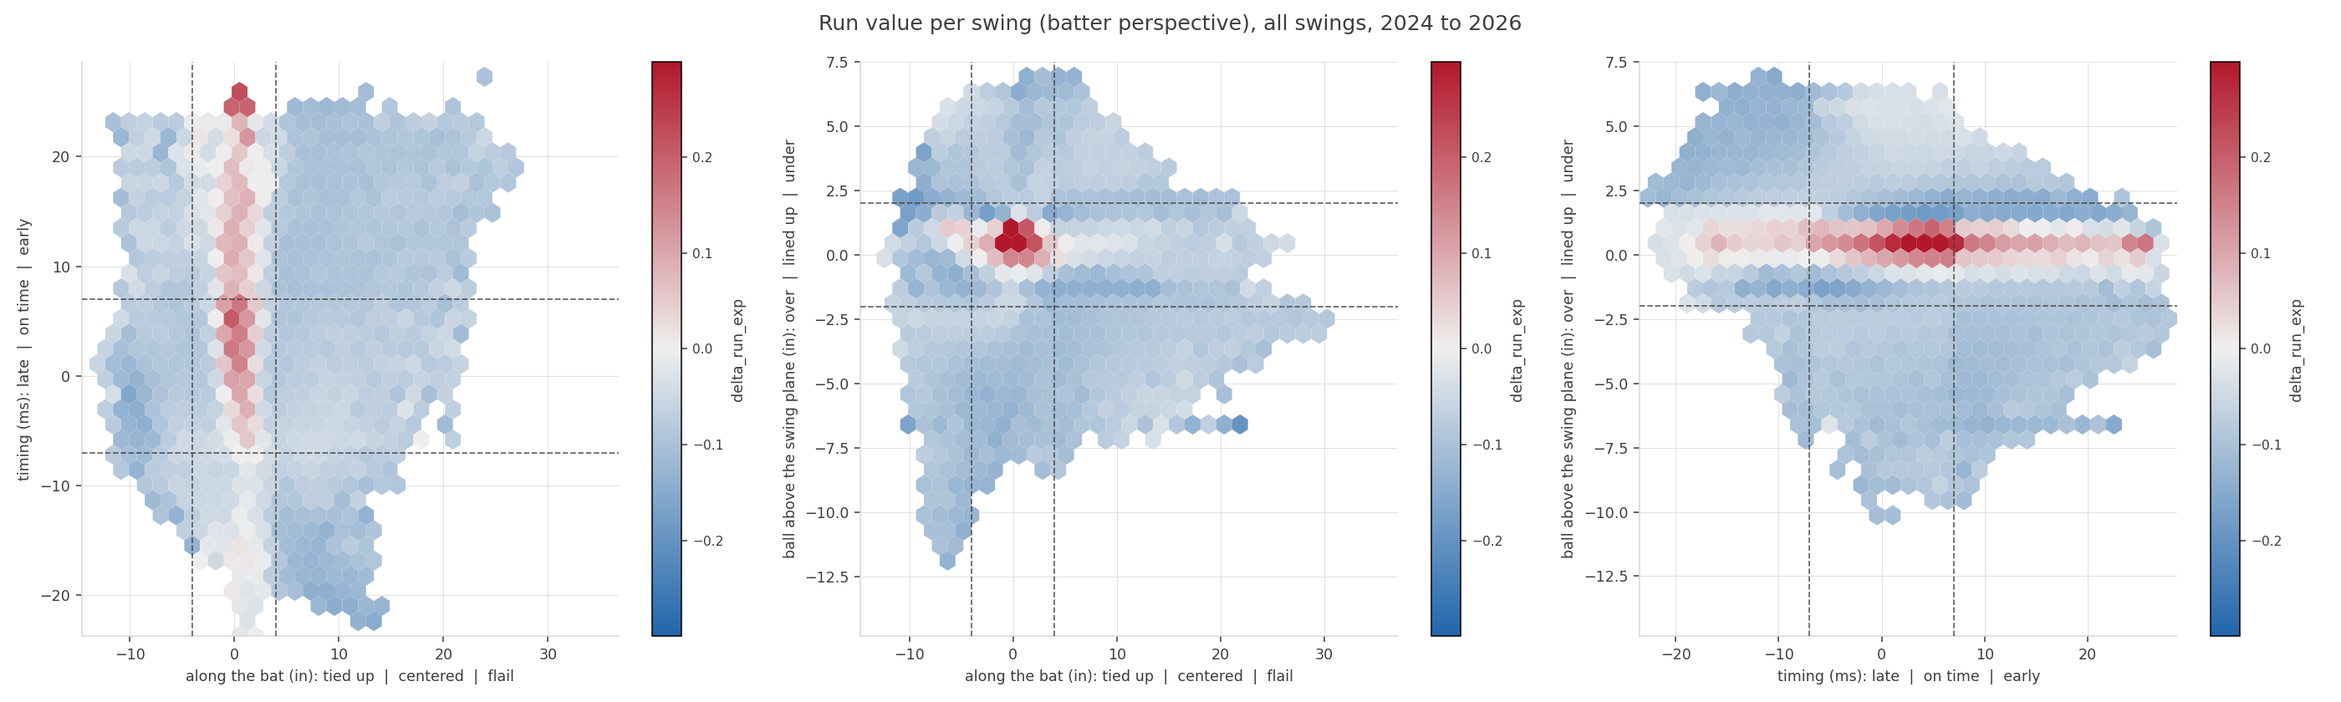
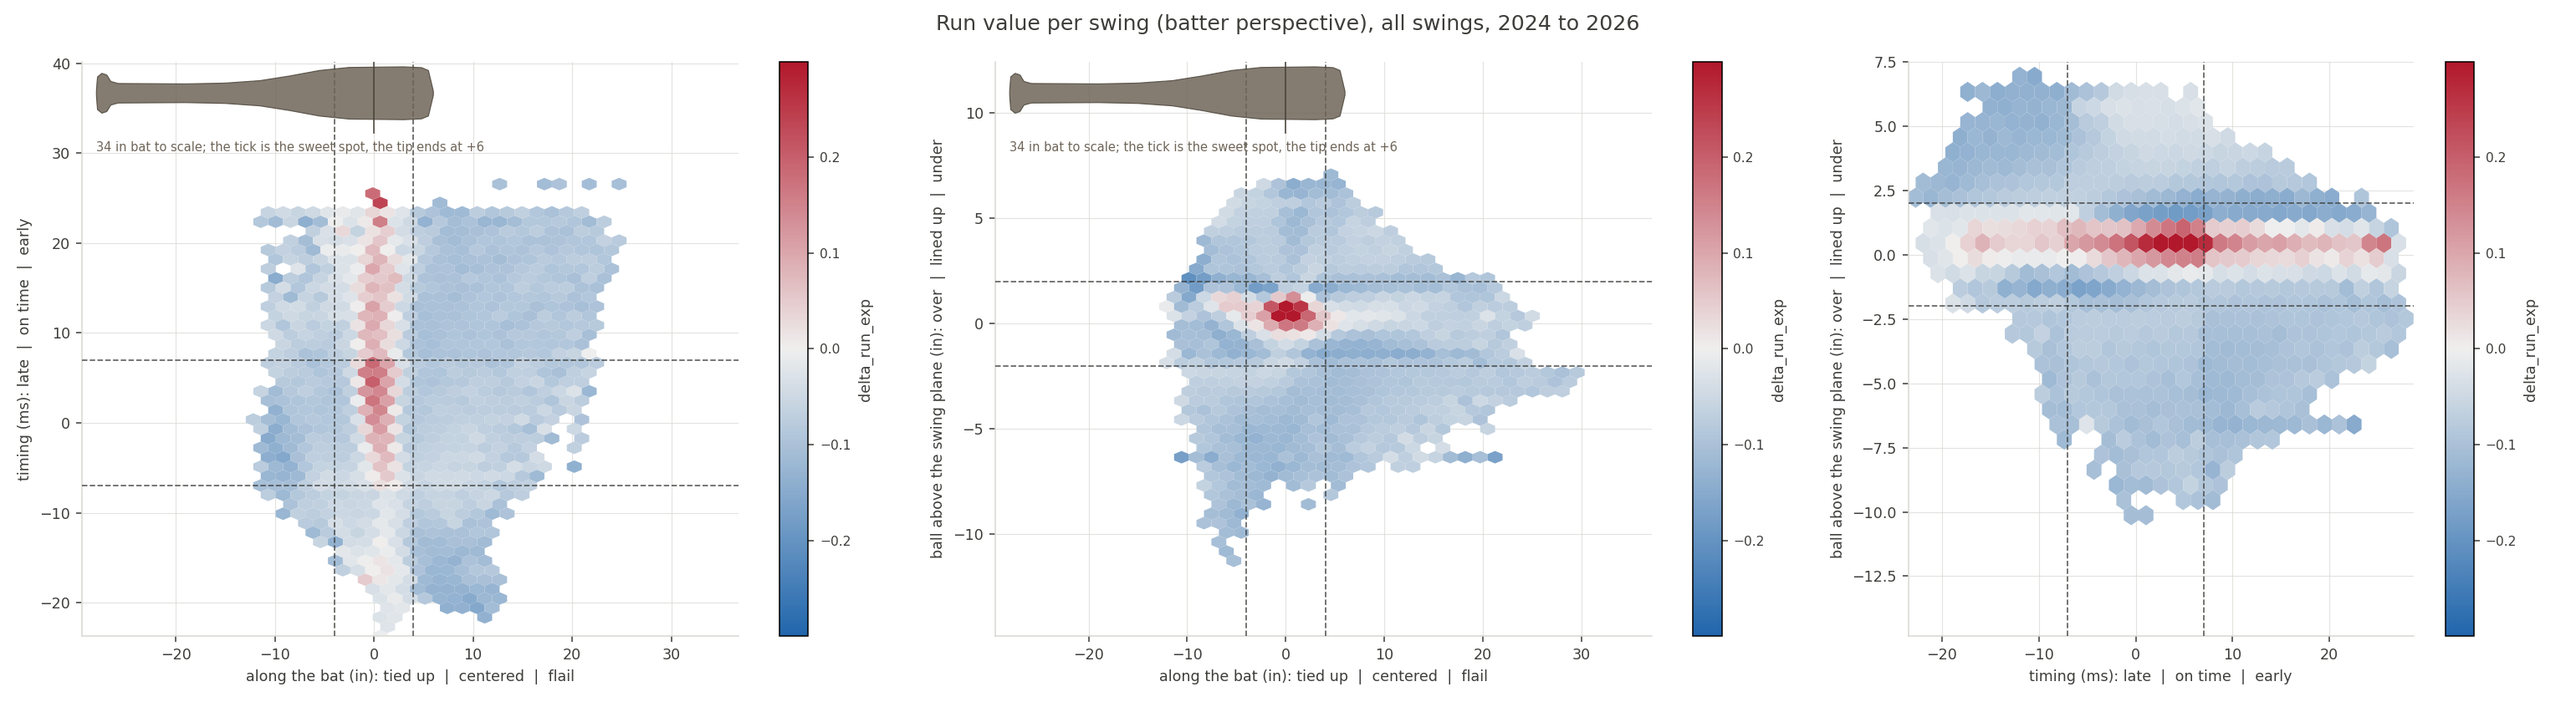
Lay a to-scale bat along the x axis of the hexbins
x is inches along the bat, so the axis can carry the object it measures. A 34
inch bat is drawn in data units with its sweet spot at zero, which is where exit
velocity peaks: 100.3 mph at x = +0.5, falling to 87 by 2.5 inches either way
and 75 by 6. The tip lands at +6 and the knob at -28.

The overlay earns its space rather than decorating. x is not symmetric: nothing
reaches the knob, 0.0% of swings sit below -28 and the 1st percentile is only
-8.5, while 8.6% of balls in play and 32.8% of whiffs land past the tip. Contact
cannot work further down the bat than the hands, but a swing can miss by any
distance off the end, and that is the whole flail tail.

116 tests pass, 7 skip without the cached pulls.

diff --git a/cp_lib/plots.py b/cp_lib/plots.py
@@ -208,6 +208,67 @@ def rate_scatter(ours: pd.DataFrame, sav: pd.DataFrame, rate: str, out_png: Path
     return out_png
 
 
+# A 34 in MLB bat with its sweet spot 6 in from the barrel end, which is where
+# exit velocity actually peaks: 100.3 mph at x = +0.5, falling to 87 by +/-2.5
+# and 75 by +/-6 (2025 balls in play). So the tip sits at x = +6 and the knob at
+# x = -28, and the drawing is to scale on the x axis.
+#
+# It is worth knowing what the overlay reveals rather than hides: x is NOT
+# symmetric. Nothing reaches the knob (0.0 percent of swings below -28, and the
+# 1st percentile is only -8.5), while 8.6 percent of balls in play and 32.8
+# percent of whiffs land PAST the tip. Contact cannot work further down than the
+# hands, but a swing can miss by any distance off the end, which is what the
+# flail tail is.
+BAT_TIP_X, BAT_LENGTH = 6.0, 34.0
+# Geometry of the reserved strip, in axes fractions, named so the drawing and
+# the test that checks it cannot drift apart. HEADROOM is added above the data's
+# own range; everything else is measured in the axes AFTER that expansion.
+BAT_HEADROOM, BAT_Y, BAT_HALF, BAT_TEXT_Y = 0.22, 0.945, 0.046, 0.862
+_BAT_PROFILE = (        # (inches from the knob end, radius in inches)
+    (0.00, 0.10), (0.10, 0.80), (0.55, 0.98), (1.05, 0.90), (1.45, 0.58),
+    (2.20, 0.48), (9.00, 0.46), (13.0, 0.50), (16.5, 0.62), (19.5, 0.85),
+    (22.5, 1.12), (25.5, 1.27), (31.0, 1.30), (32.8, 1.26), (33.5, 1.12),
+    (34.0, 0.10),
+)
+
+
+def bat_outline(n: int = 600):
+    """(x along the bat, half thickness in inches) for one bat silhouette."""
+    s_pts = np.array([p[0] for p in _BAT_PROFILE], float)
+    r_pts = np.array([p[1] for p in _BAT_PROFILE], float)
+    s = np.linspace(0.0, BAT_LENGTH, n)
+    r = np.interp(s, s_pts, r_pts)
+    return s - (BAT_LENGTH - BAT_TIP_X), r
+
+
+def draw_bat(ax, y_frac=BAT_Y, max_half=BAT_HALF, color="#6f6558", alpha=0.85,
+             label=True):
+    """Lay a to-scale bat along the x axis, in a reserved strip of the panel.
+
+    x is in DATA units so the bat lines up with the axis it describes; the
+    vertical is in AXES fractions, because the other axis is milliseconds or
+    inches-above-plane and a bat has no thickness in either.
+    """
+    from matplotlib.patches import Polygon
+    x, r = bat_outline()
+    k = max_half / r.max()
+    pts = np.concatenate([np.column_stack([x, y_frac + r * k]),
+                          np.column_stack([x[::-1], y_frac - r[::-1] * k])])
+    ax.add_patch(Polygon(pts, closed=True, facecolor=color, edgecolor="#4a4339",
+                         lw=0.6, alpha=alpha, zorder=6,
+                         transform=ax.get_xaxis_transform(), clip_on=True))
+    ax.plot([0, 0], [y_frac - max_half * 1.5, y_frac + max_half * 1.5],
+            color="#4a4339", lw=0.9, alpha=0.9, zorder=7,
+            transform=ax.get_xaxis_transform(), clip_on=True)
+    if label:
+        ax.text(x.min(), BAT_TEXT_Y,
+                f"{BAT_LENGTH:.0f} in bat to scale; the tick is the sweet spot, "
+                f"the tip ends at {BAT_TIP_X:+.0f}",
+                fontsize=7.5, color="#6f6558", ha="left", va="top", zorder=7,
+                transform=ax.get_xaxis_transform(), clip_on=True)
+    return ax
+
+
 def _diverging_limits(vals, vcenter=0.0, weights=None, keep=1.0):
     """Where the colormap puts its white, and how far each half reaches.
 
@@ -297,7 +358,7 @@ def _bulk_extent(v: np.ndarray, axis: str, keep=0.998):
 
 
 def hexbin(cal, df, axes=("x", "y"), value="delta_run_exp", min_n=50, title=None,
-           ax=None, gridsize=34, vmax=None, vcenter=0.0, cbar=True):
+           ax=None, gridsize=34, vmax=None, vcenter=0.0, cbar=True, bat=True):
     """Mean of `value` over hexagonal cells of the reconstructed plane.
 
     Hexagons rather than the Savant rectangles because these panels are a
@@ -318,6 +379,14 @@ def hexbin(cal, df, axes=("x", "y"), value="delta_run_exp", min_n=50, title=None
     c = df[value].to_numpy(float)
     ok = np.isfinite(x) & np.isfinite(y) & np.isfinite(c)
     ex, ey = _bulk_extent(x[ok], a), _bulk_extent(y[ok], b)
+    if bat and a == "x" and ex is not None:
+        # Hold the whole bat, knob included, or the silhouette is a cone with
+        # its handle off the page. gridsize rises with the widened extent so the
+        # hexagons over the data stay the size they were.
+        wide = min(ex[0], -(BAT_LENGTH - BAT_TIP_X) - 1.5)
+        if wide < ex[0]:
+            gridsize = int(round(gridsize * (ex[1] - wide) / (ex[1] - ex[0])))
+            ex = (wide, ex[1])
     if ok.sum() < min_n or ex is None or ey is None:
         ax.set_title(title or "")
         ax.text(0.5, 0.5, "no cell reached the minimum count", ha="center", va="center",
@@ -339,6 +408,12 @@ def hexbin(cal, df, axes=("x", "y"), value="delta_run_exp", min_n=50, title=None
         ax.axhline(t, color=INK, lw=0.9, ls="--", alpha=0.8, zorder=3)
     ax.set_xlim(*ex)
     ax.set_ylim(*ey)
+    if bat and a == "x":
+        # Open headroom at the top and put the bat in it, so the silhouette
+        # never sits on top of a hexagon it is supposed to explain.
+        span = ey[1] - ey[0]
+        ax.set_ylim(ey[0], ey[1] + BAT_HEADROOM * span)
+        draw_bat(ax)
     ax.set_xlabel(AXIS_LABEL[a], fontsize=9, color=INK)
     ax.set_ylabel(AXIS_LABEL[b], fontsize=9, color=INK)
     if title:
@@ -351,11 +426,16 @@ def hexbin(cal, df, axes=("x", "y"), value="delta_run_exp", min_n=50, title=None
 
 
 def hexbin_grid(cal, df, value, out_png: Path, title: str, min_n=50, gridsize=34,
-                vcenter=0.0) -> Path:
-    fig, axs = plt.subplots(1, 3, figsize=(20, 6))
+                vcenter=0.0, bat=True) -> Path:
+    # The two x panels carry a whole 34 in bat plus the flail tail, about 53 in
+    # of range against 50 ms on the third, so they get more width or their
+    # hexagons come out squeezed next to it.
+    ratios = [1.3, 1.3, 1.0] if bat else [1, 1, 1]
+    fig, axs = plt.subplots(1, 3, figsize=(22, 6),
+                            gridspec_kw={"width_ratios": ratios})
     for ax, pair in zip(axs, (("x", "y"), ("x", "z"), ("y", "z"))):
         hexbin(cal, df, pair, value, min_n=min_n, ax=ax, gridsize=gridsize,
-               vcenter=vcenter)
+               vcenter=vcenter, bat=bat)
     fig.suptitle(title, fontsize=13, color=INK)
     fig.tight_layout()
     out_png = Path(out_png)

diff --git a/tests/test_contact_point_plots.py b/tests/test_contact_point_plots.py
@@ -508,3 +508,75 @@ def test_cells3d_and_hexbin_agree_about_where_the_z_ridge_is():
     prof = g.groupby("bz").apply(lambda t: np.average(t["mean"], weights=t["n"]))
     peak = float(prof.idxmax())
     assert peak == 0.5, f"the peak landed at {peak}, expected +0.5"
+
+
+def test_the_bat_is_drawn_to_the_x_scale():
+    """x is inches along the bat, so the overlay has to share its units."""
+    x, r = plots.bat_outline()
+    assert abs(x.max() - plots.BAT_TIP_X) < 1e-9, "the tip is not at x = +6"
+    assert abs((x.max() - x.min()) - plots.BAT_LENGTH) < 1e-9, "not 34 in long"
+    assert abs(x.min() + 28.0) < 1e-9, "the knob is not at x = -28"
+    assert 1.2 < r.max() < 1.35, f"barrel radius {r.max()} is not a legal bat"
+    handle = r[(x > -25) & (x < -18)]
+    assert handle.max() < 0.6, "the handle is as thick as the barrel"
+
+
+def test_a_bat_panel_widens_its_x_range_to_hold_the_whole_bat():
+    """Without this the handle runs off the page and it reads as a cone."""
+    import matplotlib.pyplot as plt
+    cal, df = _fake(n=20000, seed=41)
+    fig, ax = plt.subplots()
+    plots.hexbin(cal, df, ("x", "y"), "delta_run_exp", min_n=5, ax=ax, cbar=False)
+    assert ax.get_xlim()[0] <= -28.0, ax.get_xlim()
+    plt.close(fig)
+
+    fig, ax = plt.subplots()
+    plots.hexbin(cal, df, ("x", "y"), "delta_run_exp", min_n=5, ax=ax, cbar=False,
+                 bat=False)
+    assert ax.get_xlim()[0] > -28.0, "bat=False still widened the range"
+    plt.close(fig)
+
+
+def test_the_bat_is_drawn_only_where_x_is_an_axis():
+    from matplotlib.patches import Polygon
+    import matplotlib.pyplot as plt
+    cal, df = _fake(n=20000, seed=42)
+    counts = {}
+    for pair in (("x", "y"), ("x", "z"), ("y", "z")):
+        fig, ax = plt.subplots()
+        plots.hexbin(cal, df, pair, "delta_run_exp", min_n=5, ax=ax, cbar=False)
+        counts[pair] = sum(isinstance(p, Polygon) for p in ax.patches)
+        plt.close(fig)
+    assert counts[("x", "y")] == 1 and counts[("x", "z")] == 1, counts
+    assert counts[("y", "z")] == 0, "a bat was drawn on the timing/plane panel"
+
+
+def test_the_bat_strip_clears_the_data_for_any_dataset():
+    """The silhouette sits in headroom opened above the data, never on it.
+
+    Asserted against the GEOMETRY, not against a fixture. The data can reach at
+    most 1/(1 + headroom) of the axes, because the axes are the data's own
+    extent expanded by that fraction. A fixture whose points fall short of its
+    extent will clear a strip that real data would collide with, which is how
+    the first version of this test passed with the headroom cut to 0.10.
+    """
+    ceiling = 1.0 / (1.0 + plots.BAT_HEADROOM)
+    bat_bottom = plots.BAT_Y - plots.BAT_HALF * 1.5
+    caption_bottom = plots.BAT_TEXT_Y - 0.025
+    assert bat_bottom > ceiling, ("bat can sit on the data", bat_bottom, ceiling)
+    assert caption_bottom > ceiling, ("caption can sit on the data",
+                                      caption_bottom, ceiling)
+    assert plots.BAT_TEXT_Y < plots.BAT_Y - plots.BAT_HALF, "caption overlaps the bat"
+    assert plots.BAT_Y + plots.BAT_HALF < 1.0, "the bat runs off the top of the panel"
+
+
+def test_the_bat_strip_is_above_the_drawn_hexagons():
+    import matplotlib.pyplot as plt
+    cal, df = _fake(n=20000, seed=43)
+    fig, ax = plt.subplots()
+    plots.hexbin(cal, df, ("x", "y"), "delta_run_exp", min_n=5, ax=ax, cbar=False)
+    hb = [c for c in ax.collections if hasattr(c, "get_offsets")][0]
+    lo, hi = ax.get_ylim()
+    top_frac = (float(np.max(hb.get_offsets()[:, 1])) - lo) / (hi - lo)
+    assert plots.BAT_TEXT_Y - 0.025 > top_frac, (plots.BAT_TEXT_Y, top_frac)
+    plt.close(fig)

diff --git a/README.md b/README.md
@@ -32,6 +32,18 @@ Tied up is negative for all 1,826 of Savant's own tail rows under both hands,
 because it measures handle against tip along the bat and does not care which
 side of the plate the batter stands on.
 
+Because x is inches along the bat, the panels carry a 34 inch bat drawn to the
+same scale, with its sweet spot at zero. That is where exit velocity actually
+peaks: 100.3 mph at x = +0.5, falling to 87 by 2.5 inches either way and 75 by
+6. The tip lands at +6 and the knob at -28.
+
+The overlay earns its space by showing that x is not symmetric. Nothing reaches
+the knob, with 0.0% of swings below -28 and a 1st percentile of only -8.5, while
+8.6% of balls in play and 32.8% of whiffs land past the tip. Contact cannot work
+further down the bat than the hands, but a swing can miss by any distance off
+the end, and that is the entire flail tail. The empty half of the panel is the
+finding, not wasted space.
+
 The best contact on balls in play is made about three quarters of an inch UNDER
 the ball, not over it, and the gap is not close: one inch under is worth .584 in
 expected wOBA against .179 one inch over. Launch angle is the mechanism and it
